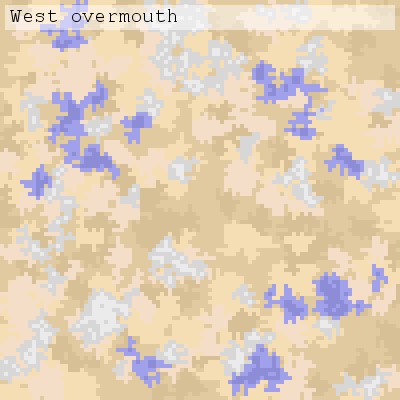
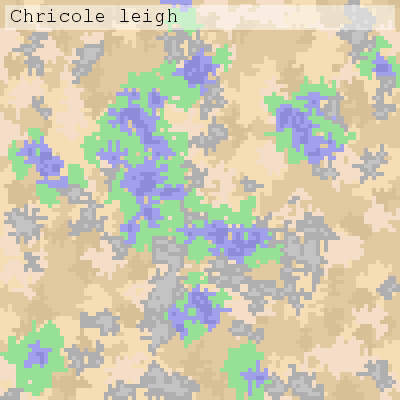
Grass now grows from the edge of a lake

diff --git a/modules/map_generator.js b/modules/map_generator.js
@@ -39,11 +39,12 @@ let map_colours =[
     "rgb(215,192,149)",//02 low ground
     "rgb(245,222,179)",//03 higher ground
     "rgb(245,222,199)",//04 hill
-    "rgb(215,215,215)",//05 mountain
-    "rgb(235,235,235)",//06 high mountain
+    "rgb(175,175,175)",//05 mountain
+    "rgb(195,195,195)",//06 high mountain
     "rgb(170,170,245)",//07 river
     "rgb(160,160,235)",//08 lake
-    "rgb(140,140,215)" //09 deep lake
+    "rgb(140,140,215)",//09 deep lake
+    "rgb(150,225,150)" //10 grass
 ];
 
 //handy references to the colours above
@@ -57,6 +58,7 @@ const HIGH_MOUNTAIN = 6;
 const RIVER = 7;
 const LAKE = 8;
 const DEEP_LAKE = 9;
+const GRASS = 10;
 
 //Creates a base map of a single colour specified by index
 let initialise_map = function(size,index){
@@ -167,12 +169,22 @@ let seed_element_once = function(map,el,test,chance,location_capture){
     return apply(map,seed);
 };
 
+let seed_element_next_to = function(map,el,test,next,chance){
+    chance = chance ? chance:0.01;
+    return apply(map,(clone,x,y)=>if_maybe(
+                                    test(clone[y][x])
+                                    && adjacent_to(clone,x,y,next),
+                                    chance,el,clone[y][x]
+                                )
+                );
+};
+
 let extend_element = function(map,el,test,chance){
     chance = chance ? chance:0.2;
     return apply(map,(clone,x,y)=>if_maybe(
                                     test(clone[y][x])
                                     && adjacent_to(clone,x,y,el),
-                                    0.2,el,clone[y][x]
+                                    chance,el,clone[y][x]
                                 )
                 );
 };
@@ -255,6 +267,13 @@ let generate_river = function(map){
     return map;
 };
 
+let generate_grass = function(map){
+    map = seed_element_next_to(map,GRASS,(v)=>is_any(v,GROUND,HIGH_GROUND,HILL),LAKE,0.2);
+    map = repeat(15,map,extend_element,GRASS,(v)=>is_any(v,GROUND,HIGH_GROUND,HILL));
+    map = fill_in_element(map,GRASS,(v)=>is_any(v,GROUND,HIGH_GROUND,HILL),3);
+    return map;
+};
+
 //This kind of function organises a set of map operations in order
 let generated_map = function(size){
     let map = initialise_map(size,GROUND);
@@ -262,6 +281,7 @@ let generated_map = function(size){
     map = generate_mountain(map);
     map = generate_river(map);
     map = generate_lake(map);
+    map = generate_grass(map);
     return map;
 };
 

diff --git a/README.md b/README.md
@@ -28,3 +28,5 @@ The latest one looks like this ...
 ![desert wasteland](https://github.com/TheRealCodeBeard/gentown/blob/master/images/map.png)
 
 There are now 6 colours of ground from the darkest brown which is 'low ground' to near white-grey which represents a high mountain.
+
+Water has three depths, river, lake and deep lake. Rivers don't flow yet.
